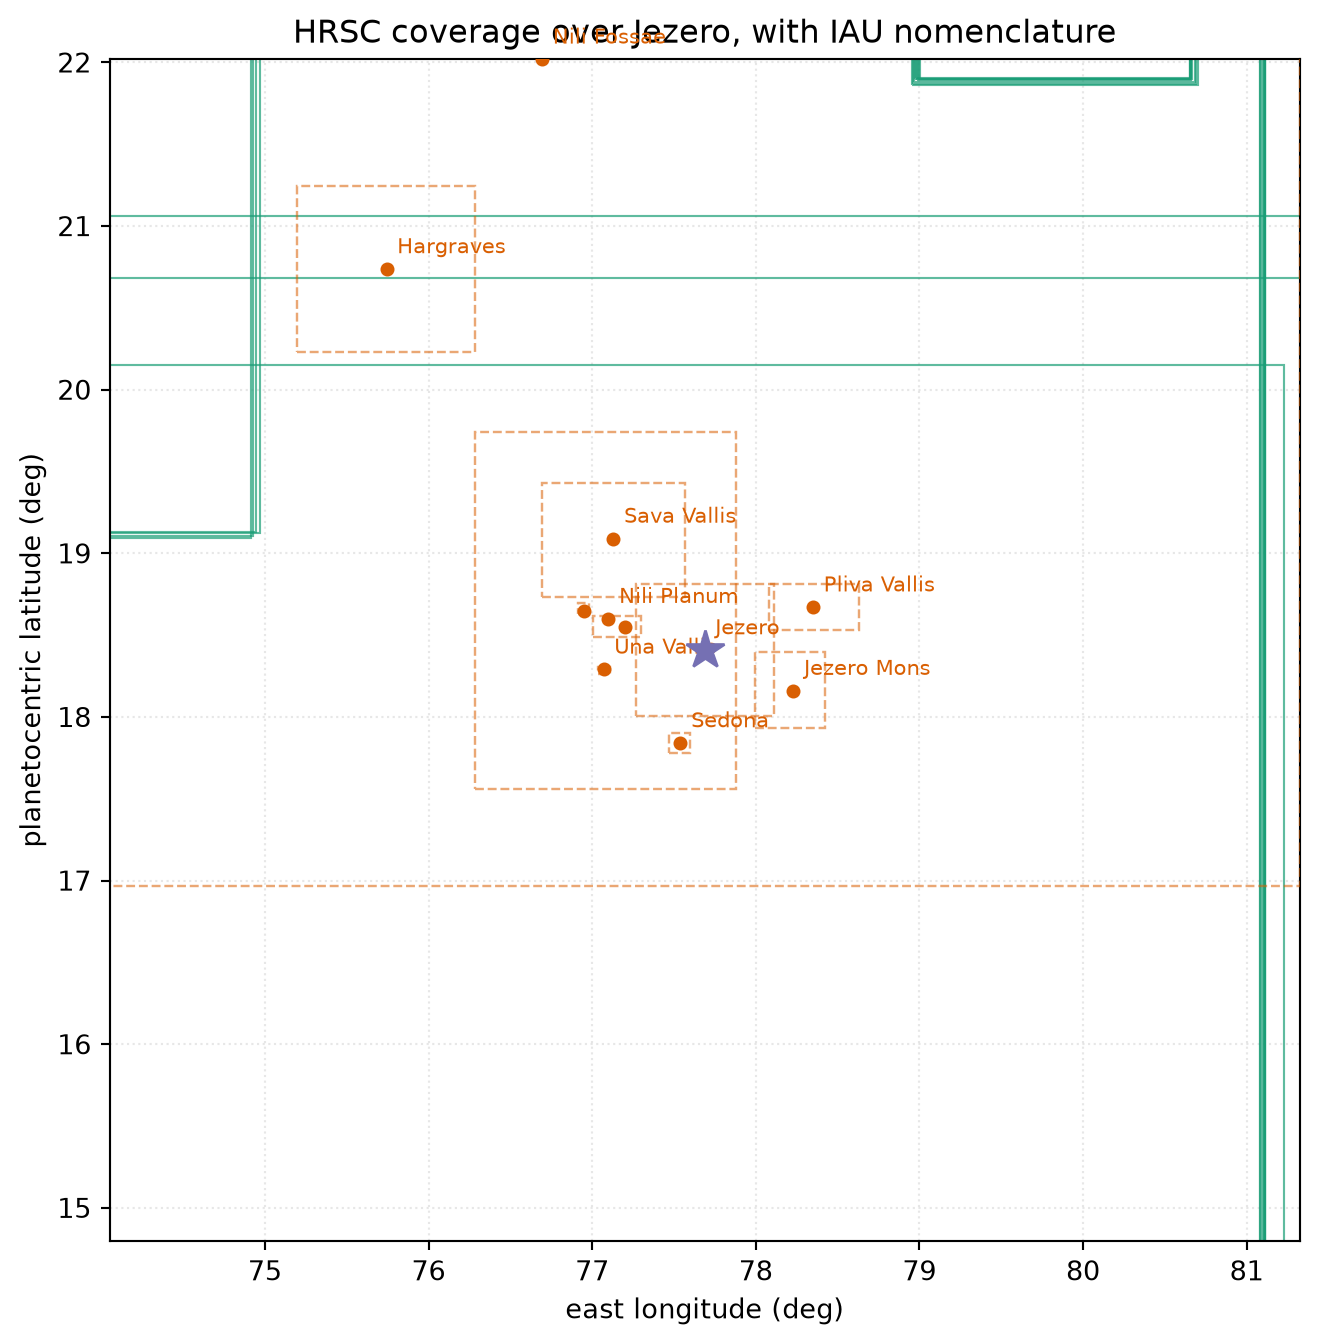
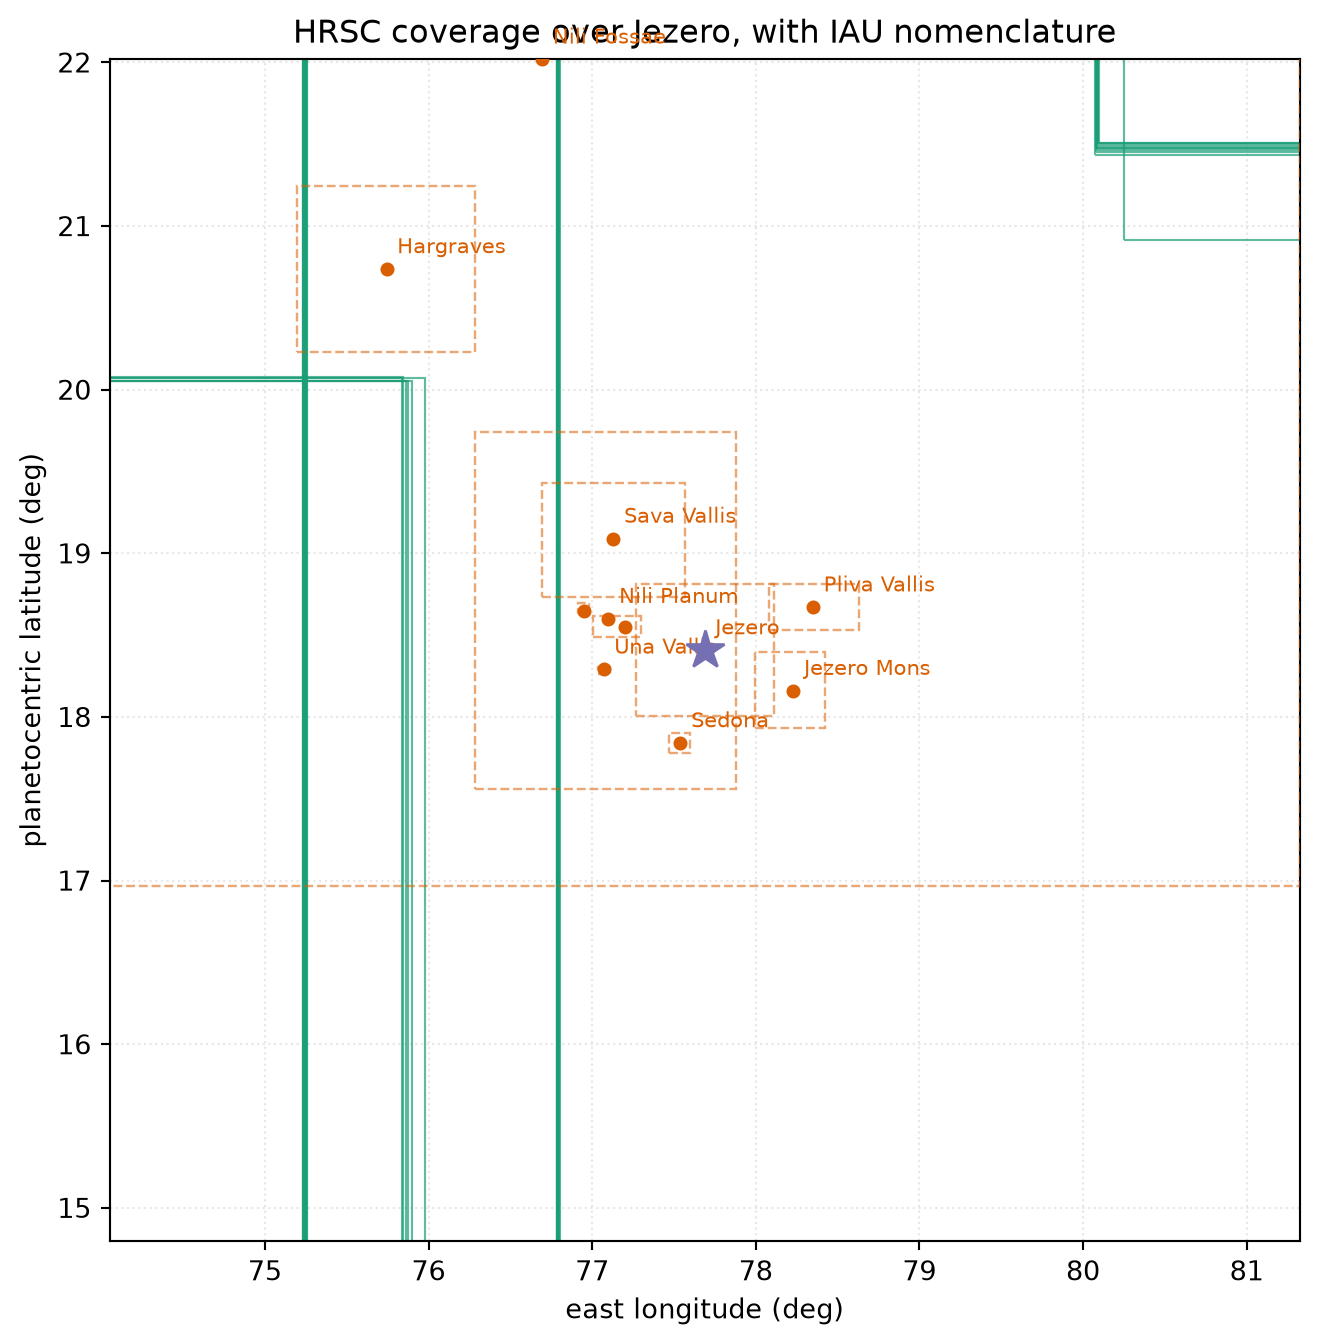
fix(docs): regenerate the tutorial freeze with a project render
The previous commit regenerated the freeze with `quarto render <file> --to html`,
which writes only execute-results/html.json. ipynb.json kept the pre-edit hash,
and that mismatch was enough for the site build to re-execute the tutorial and
die on the missing kernel — the same failure the freeze exists to prevent.

A full `quarto render` in docs/ writes both; they now share hash 24fb52be. The
rule in CLAUDE.md said "re-render locally" without saying how, so it is now
explicit, including that a single-file render always executes and therefore
cannot be used to check the freeze is honoured.

Claude-Session: https://claude.ai/code/session_01XXAAYJiVnUwdjYQ3PDrMR2

diff --git a/CLAUDE.md b/CLAUDE.md
@@ -208,7 +208,9 @@ These patterns are uniform across the existing `plp` verbs; new commands should 
 
 - **Executing `.qmd` tutorials must ship their freeze.** The docs runner installs only `.[dev,docs]` — no jupyter, no `nbformat`, and none of the science extras. It cannot execute a notebook. Two tutorials in the nav declare `jupyter: python3` and execute: `tutorials/surface_features_tutorial.qmd` and `tutorials/cross_archive_mars_tutorial.qmd`. They render in CI **only** because `docs/_freeze/` holds their cached outputs.
 
-  Quarto keys the freeze on a hash of the source, so **editing one of those two invalidates its cache**. Re-render locally (where the extras are installed) and commit the regenerated `docs/_freeze/…` files **in the same commit as the `.qmd` edit**. Committing the source alone makes Quarto fall back to executing, and the build dies with `ModuleNotFoundError: No module named 'nbformat'` partway through the render.
+  Quarto keys the freeze on a hash of the source, so **editing one of those two invalidates its cache**. Re-render locally (where the extras are installed) and commit the regenerated `docs/_freeze/…` files **in the same commit as the `.qmd` edit**.
+
+  **Regenerate with a full project render — `cd docs && quarto render` — not `quarto render <file> --to html`.** A single-file render writes only `execute-results/html.json` and leaves `ipynb.json` at the old hash; that mismatch alone is enough to make the site build re-execute, and it fails exactly as if no freeze had been committed. After rendering, `git status docs/_freeze/` should show **both** `html.json` and `ipynb.json` modified, and the two must carry the same `hash`. (Single-file renders also always execute locally, so they cannot be used to verify the freeze is being honoured.) Committing the source alone makes Quarto fall back to executing, and the build dies with `ModuleNotFoundError: No module named 'nbformat'` partway through the render.
 
   This has bitten once: `a81ee61` edited both tutorials and shipped only the source. Symptom to recognise — a docs build that fails at a numbered render step (`[53/73] tutorials/…`) rather than at setup.
 
